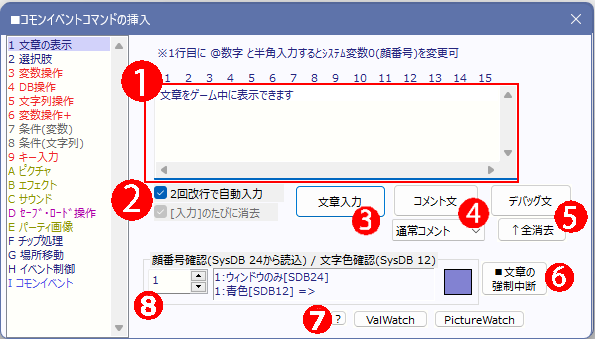
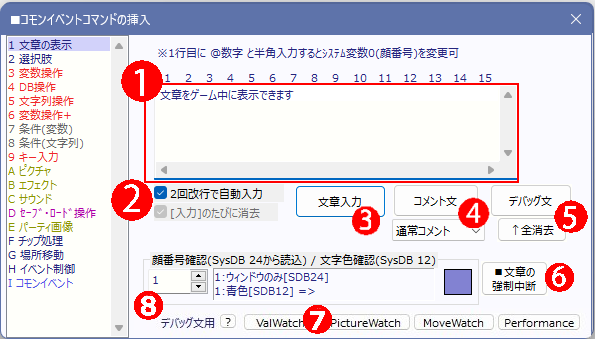
file upload

Changed region(s): [[0.5445, 0.9145, 0.9681, 0.9735], [0.2723, 0.9145, 0.5143, 0.9735]]

diff --git a/help/01debug.html b/help/01debug.html
@@ -52,8 +52,11 @@ iframe{
 テストプレイとしてではなく、Game.exeを直接起動したときにはこれらのコマンドが使えないので注意してください。<BR>
 <BR>
   　・<B><a href="#dwindow" class="glink">デバッグウィンドウ （F3）</a></B><BR>
-　　- <a href="#dcommand" class="glink"><b>「デバッグ文」コマンドの裏技 ValWatch(変数監視)と<br>
-  PictureWatch(ピクチャ監視)、MoveWatch(動作指定監視)</b></a><BR>
+　　- <a href="#dcommand" class="glink"><b>「デバッグ文」コマンドの裏技</b></a><BR>
+　　　- <a href="#dcommand1" class="glink">ValWatch(変数監視)</b></a><br>
+　　　- <a href="#dcommand2" class="glink">PictureWatch(ピクチャ監視)</b></a><BR>
+　　　- <a href="#dcommand3" class="glink"> MoveWatch(動作指定監視)</b></a><BR>
+　　　- <a href="#dcommand4" class="glink">PerformanceMonitor(パフォーマンスモニター・イベント負荷の監視)</b></a><BR>
 　・<B><a href="#picture" class="glink">ピクチャ詳細一覧（F7）</a></B><BR>
 　・<B><a href="#debugdata" class="glink">デバッグデータ（F8）</a></B><BR>
 　・<B><a href="#valuelist" class="glink">変数一覧（F9）</a></B><BR>
@@ -88,9 +91,11 @@ iframe{
 <BR>
 <B><FONT size="+1">[ 「デバッグ文」コマンドの裏技 ValWatchとPictureWatch、MoveWatch ]</FONT></B><BR>
 <BR>
-　「文章の表示」コマンドの「デバッグ文」で以下の入力を行うと、<b>変数やピクチャの監視</b>ができます。 <BR>
-　<br>
-<b><span style="font-size : 120%;">●「デバッグ文」の隠しコマンド1　【変数監視機能　ValWatch】</span></b><br>
+　「文章の表示」コマンドの「デバッグ文」で以下の入力を行うと、<b>変数やピクチャの監視など</b>ができます。 <BR>
+  　<br>
+  <br>
+  <br>
+<b id="dcommand1"><span style="font-size : 120%;">●「デバッグ文」の隠しコマンド1　【変数監視機能　ValWatch】</span></b><br>
 <br>
 　たとえばデバッグ文に
 <table border="1">
@@ -127,7 +132,7 @@ iframe{
 <br>
   <br>
   <br>
-<b><span style="font-size : 120%;">●「デバッグ文」の隠しコマンド2　【ピクチャ監視機能　PictureWatch】</span></b><br>
+<b id="dcommand2"><span style="font-size : 120%;">●「デバッグ文」の隠しコマンド2　【ピクチャ監視機能　PictureWatch】</span></b><br>
 <br>
 　たとえば「デバッグ文」機能で
 </p>
@@ -149,7 +154,7 @@ iframe{
   <p><br>
   <br>
   <br>
-<b><span style="font-size : 120%;">●「デバッグ文」の隠しコマンド3　【動作指定の監視機能　MoveWatch】</span></b> (Ver3.645以降)<br>
+<b id="dcommand3"><span style="font-size : 120%;">●「デバッグ文」の隠しコマンド3　【動作指定の監視機能　MoveWatch】</span></b> (Ver3.645以降)<br>
 <br>
 　たとえば「デバッグ文」機能で
 
@@ -168,12 +173,37 @@ iframe{
   　【見本】　ID「-2(主人公）」を指定して、「9コマンド」の動作指定が実行されたとき<br>
   <b>　# MoveWatch=&gt; ID -2 [ 9 moves ]<br>
   　--&gt;[MapEv4/4行]</b><br>
-
+  <br>
+  <br>
   <br>
 <br>
+<b id="dcommand4"><span style="font-size : 120%;">●「デバッグ文」の隠しコマンド4　【イベント負荷の監視　PerformanceMonitor】</span></b> (Ver3.689以降)<br>
 <br>
-
-<BR>
+  　パフォーマンスモニター機能です。たとえば「デバッグ文」機能で </p>
+  <table border="1">
+  <tbody>
+    <tr>
+      <td><b><span style="color : #ff0000;">PerformanceMonitor:ON:FRAME=1:TOP=10</span></b>&nbsp;</td>
+    </tr>
+  </tbody>
+</table>
+  <P>　のように記述して実行すると、「<b>1</b>」フレームごと(<b>FRAME=1</b>)に1回、イベント処理時間が長くかかっている高負荷なイベントリストの上位「<b>10</b>」位(<b>TOP=10</b>)までをデバッグウィンドウに出力します。<br>
+  <b><span style="color : #cc0000;">　※負荷が大きくなるため、ゲーム公開時には切ることを推奨します。<br>
+  　　また、計測そのものの負荷が高いのでONにしている間は「タイトルバーに表示されているイベント処理時間」が「計測された全部のイベント処理時間」合計より大きくなります。</span><br>
+  </b><br>
+  →　「<b>FRAME</b>」の値を増やすと、そのフレーム間隔で処理時間が出力されます。<br>
+  →　「<b>TOP</b>」の値を変えると、その順位分だけを出力することができます。<br>
+  →　「<b>ON</b>」のところを「<b>ON2</b>」にすると、デバッグ文には表示されなくなり、<br>
+  　　システム文字列「<b>SysS82:[読]ﾊﾟﾌｫｰﾏﾝｽﾓﾆﾀｰ最終出力文</b>」にのみ出力されます。<br>
+  <br>
+  <br>
+  <b>【見本】</b>　<b><span style="color : #ff0000;">PerformanceMonitor:ON:FRAME=10:TOP=3</span></b>　の実行例<br>
+  　つまりFRAME=10（10フレームごと）、TOP=3 としてをデバッグ文で実行した後、10フレームごとに出力される内容<br>
+  <br>
+  <b>　【パフォーマンスモニター(10ﾌﾚｰﾑ間隔)】<br>
+  　ｺﾓﾝ63 [X[共]メッセージウィンドウ] 0.05 ms<br>
+  　ｺﾓﾝ126 [X[移]歩行時_並列キー処理] 0.02 ms<br>
+  　Map1 Ev11 [メニューの男] 0.01 ms</b><BR>
 <HR size="1" id="picture"><BR>
 <B><FONT size="+1">[ ピクチャ詳細一覧（F7） ]</FONT></B><BR>
 <BR>

diff --git a/help/04ev_text.html b/help/04ev_text.html
@@ -94,8 +94,8 @@ iframe{
 　並列実行イベントでのみ、有効な処理です。文章が表示されている場合にこの処理を実行すると、現在の文章表示を強制的に中断します。<BR>
 <br>
 <br>
-<B>7．「ValWatch」「PictureWatch」ボタン</B><BR>
-　クリックするとデバッグ文コマンドの「<b><span>ValWatch:ON=</span></b>」または「<b><span>PictureWatch:ON=</span></b>」を上部の欄に入力します。<br>
+<B>7．「ValWatch」「PictureWatch」「MoveWatch」「Performance」ボタン</B><BR>
+  　クリックするとデバッグ文コマンドの見本として「<b><span>ValWatch:ON=2000000</span></b>」、「<b><span>PictureWatch:ON=123</span></b>」「<b>MoveWatch:ON=-2</b>」「<b>PerformanceMonitor:ON:FRAME=1:TOP=10</b>」を上部の欄に入力します。<br>
 　詳しい説明は↓の方に記載されています。<BR>
 <br>
 <br>
@@ -233,10 +233,41 @@ iframe{
   　--&gt;[MapEv4/4行]</b><br>
 <br>
 
+  
+  <p><br>
+<br>
+<b id="dcommand4"><span style="font-size : 120%;">●「デバッグ文」の隠しコマンド4　【イベント負荷の監視　PerformanceMonitor】</span></b> (Ver3.689以降)<br>
+<br>
+  　パフォーマンスモニター機能です。たとえば「デバッグ文」機能で </p>
+  <table border="1">
+  <tbody>
+    <tr>
+      <td><b><span style="color : #ff0000;">PerformanceMonitor:ON:FRAME=1:TOP=10</span></b>&nbsp;</td>
+    </tr>
+  </tbody>
+</table>
+  <P>　のように記述して実行すると、「<b>1</b>」フレームごと(<b>FRAME=1</b>)に1回、イベント処理時間が長くかかっている高負荷なイベントリストの上位「<b>10</b>」位(<b>TOP=10</b>)までをデバッグウィンドウに出力します。<br>
+  <b><span style="color : #cc0000;">　※負荷が大きくなるため、ゲーム公開時には切ることを推奨します。<br>
+  　　また、計測そのものの負荷が高いのでONにしている間は「タイトルバーに表示されているイベント処理時間」が「計測された全部のイベント処理時間」合計より大きくなります。</span><br>
+  </b><br>
+  →　「<b>FRAME</b>」の値を増やすと、そのフレーム間隔で処理時間が出力されます。<br>
+  →　「<b>TOP</b>」の値を変えると、その順位分だけを出力することができます。<br>
+  →　「<b>ON</b>」のところを「<b>ON2</b>」にすると、デバッグ文には表示されなくなり、<br>
+  　　システム文字列「<b>SysS82:[読]ﾊﾟﾌｫｰﾏﾝｽﾓﾆﾀｰ最終出力文</b>」にのみ出力されます。<br>
+  <br>
+  <br>
+  <b>【見本】</b>　<b><span style="color : #ff0000;">PerformanceMonitor:ON:FRAME=10:TOP=3</span></b>　の実行例<br>
+  　つまりFRAME=10（10フレームごと）、TOP=3 としてをデバッグ文で実行した後、10フレームごとに出力される内容<br>
+  <br>
+  <b>　【パフォーマンスモニター(10ﾌﾚｰﾑ間隔)】<br>
+  　ｺﾓﾝ63 [X[共]メッセージウィンドウ] 0.05 ms<br>
+  　ｺﾓﾝ126 [X[移]歩行時_並列キー処理] 0.02 ms<br>
+  　Map1 Ev11 [メニューの男] 0.01 ms</b>
   <P><br>
   
   <P><BR>
 　
+
 
 
 

diff --git a/ReleaseLog.html b/ReleaseLog.html
@@ -303,7 +303,7 @@ A:hover.newstxA,A:active.newstxA{
       　※このページの更新履歴は上が新しい内容です</span><br>
       <br>
       <hr size="1" noshade>
-      <span style="font-size : 120%;"><b>【Ver3.689のアップデート内容】</b></span>　2026/4/7　 <a href="#top" class="green" style="width:200px;">↑トップへ</a><br>
+      <span style="font-size : 120%;"><b>【Ver3.689～3.690のアップデート内容】</b></span>　2026/4/7　 <a href="#top" class="green" style="width:200px;">↑トップへ</a><br>
       <br>
       <b><span style="font-size : 120%;"><br>
       【新機能】</span></b><br>
@@ -367,7 +367,14 @@ A:hover.newstxA,A:active.newstxA{
 <br>
 ●【コモンイベントウィンドウ/不具合】<br>
 　右クリックの「この範囲を0回ループに入れる」をした後に<br>
-　「一つ元に戻す」を実行すると2手分戻ってしまうバグを修正<br>
+      　「一つ元に戻す」を実行すると2手分戻ってしまうバグを修正<br>
+      <br>
+      ●【文章の表示/不具合】 (Ver3.690)<br>
+　・Ver3.689だけ上部の説明が消えていたミスを修正<br>
+　・[?]に、パフォーマンスモニターをオンにすると<br>
+　　負荷が高くなるという説明追加<br>
+<br>
+      <br>
       <br>
       <hr size="1" noshade>
       <span style="font-size : 120%;"><b>【Ver3.688のアップデート内容】</b></span>　2026/4/2　 <a href="#top" class="green" style="width:200px;">↑トップへ</a><br>

diff --git a/help/06systemvalue.html b/help/06systemvalue.html
@@ -724,7 +724,12 @@ size=+1>【システム変数/文字列一覧】</FONT></B><BR>
       　　英語：<b>English</b><br>
       　　簡体字：<b>Chinese (Simplified)</b> <br>
       　　繁体字：<b>Chinese (Traditional)</b><br>
-      　など。この言語名は「ISO 639による言語名」とのことですが、中国語などは上のように()で区別されることもあるようです。<br>
+        　など。この言語名は「ISO 639による言語名」とのことですが、中国語などは上のように()で区別されることもあるようです。<br>
+        <br>
+        <br>
+      <b>SysS 82:[読]ﾊﾟﾌｫｰﾏﾝｽﾓﾆﾀｰ最終出力文</b> [Ver3.689で実装]<br>
+        　デバッグ文に表示される<b><a href="01debug.html#dcommand4">パフォーマンスモニター</a></b>（デバッグ機能）の内容のうち、最後に出力された内容が返されます。<br>
+        　ゲーム画面内にパフォーマンスモニターの内容を表示したい場合などにご利用ください。<br>
       </TD>
 </TR>
 </TBODY>